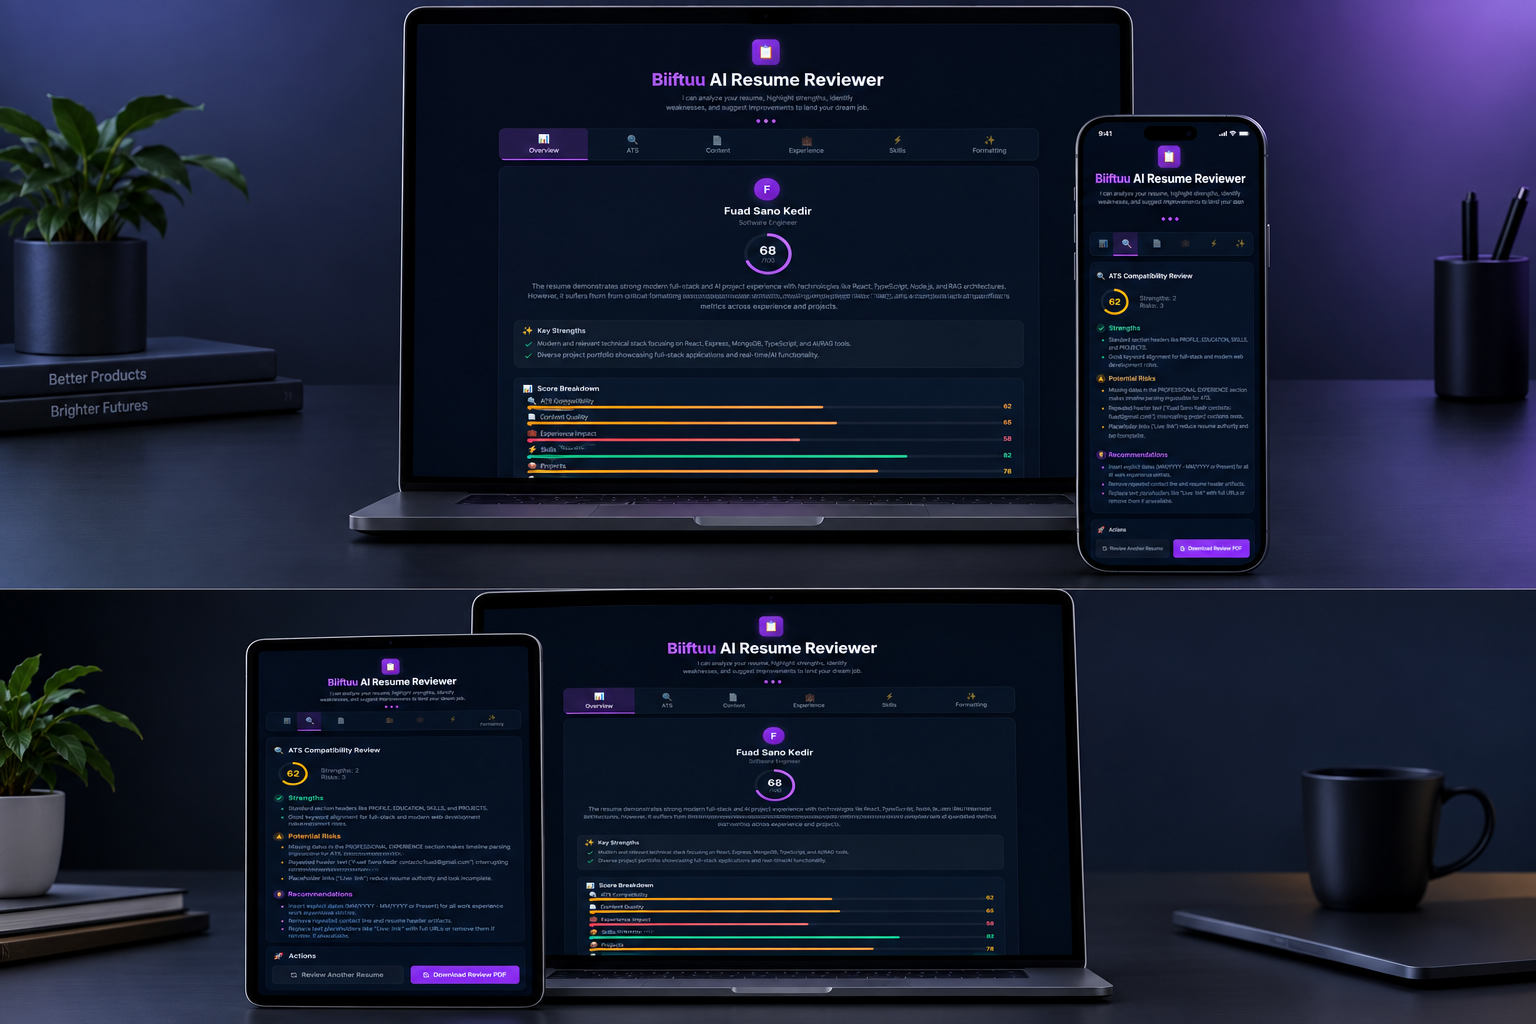
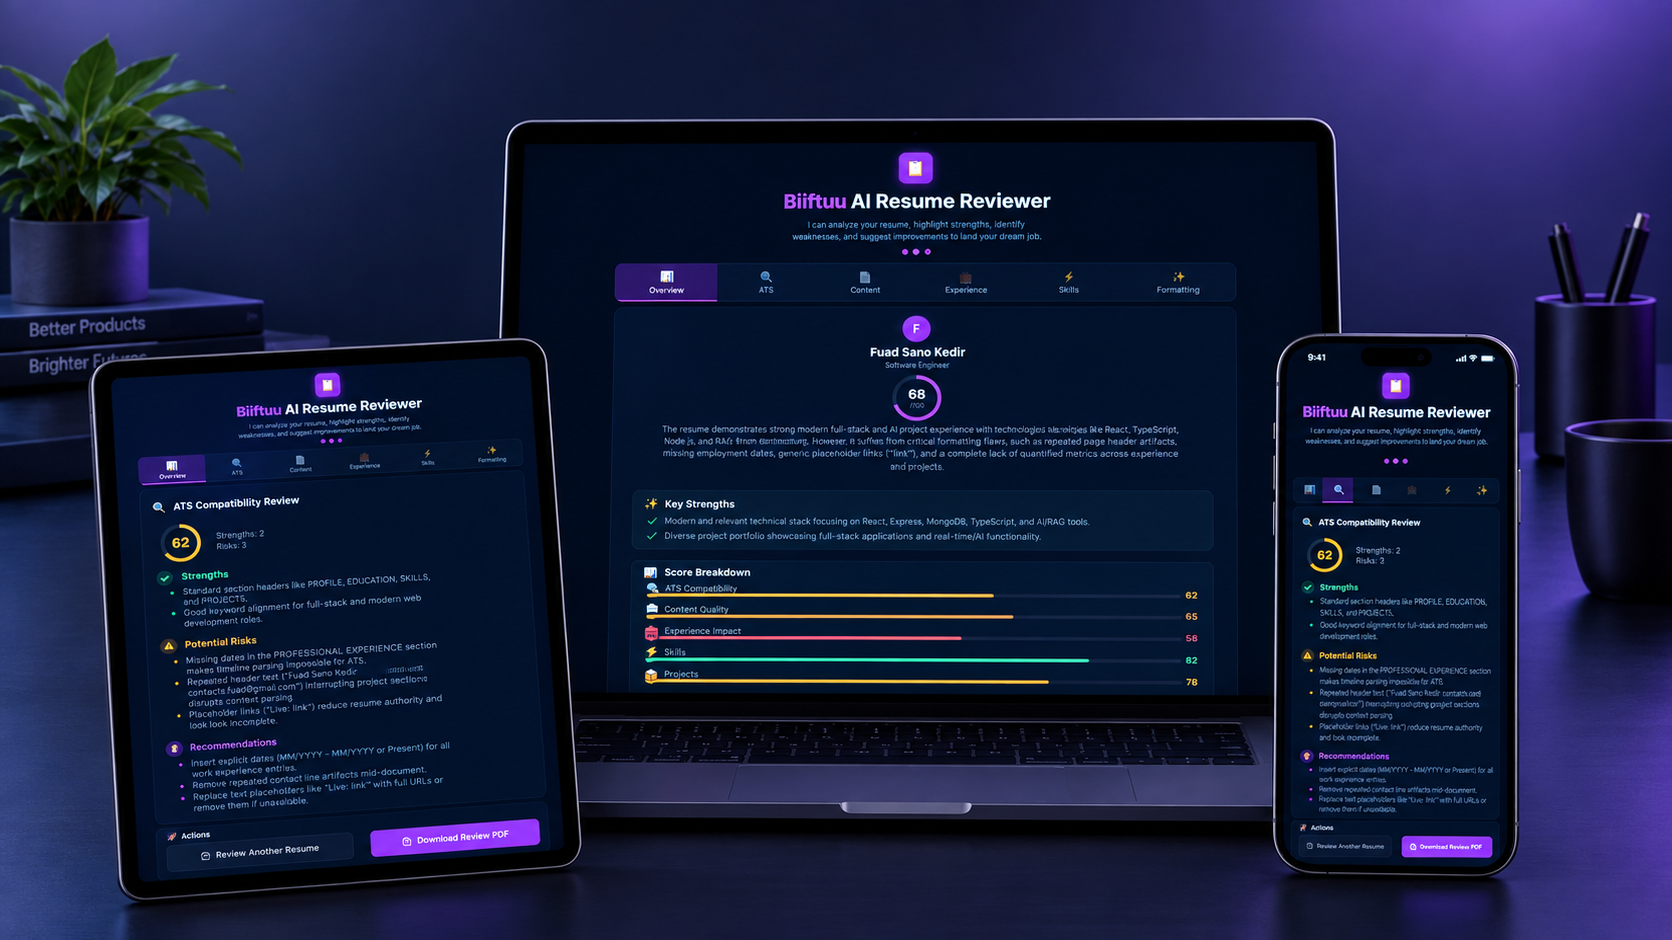
Update biiftuu-ai-mockup.png for improved design

diff --git a/README.md b/README.md
@@ -116,22 +116,29 @@ Biiftuu/
 ├── backend/
 │   ├── app/
 │   │   ├── api/routes/        # API endpoints
+│   │   ├── agents/            # AI agent logic
 │   │   ├── core/              # Config & settings
-│   │   ├── services/          # AI, parsing, review logic
+│   │   ├── prompts/           # Gemini prompt templates
 │   │   ├── schemas/           # Pydantic models
-│   │   └── prompts/           # Gemini prompt templates
+│   │   ├── services/          # AI, parsing, review logic
+│   │   └── utils/             # Validators & text cleaners
+│   ├── tests/                 # Backend tests
 │   ├── requirements.txt
 │   └── runtime.txt
 ├── frontend/
 │   ├── public/
-│   │   └── favicon.svg        # Branding asset
+│   │   ├── favicon.svg        # Favicon
+│   │   └── biiftuu-ai-mockup.png  # Branding asset
 │   ├── src/
 │   │   ├── components/        # UI components
 │   │   ├── hooks/             # React hooks
 │   │   ├── pages/             # Page views
-│   │   └── services/          # API client
+│   │   ├── services/          # API client
+│   │   └── utils/             # Formatters
 │   ├── package.json
-│   └── vite.config.js
+│   ├── vite.config.js
+│   ├── tailwind.config.js
+│   └── postcss.config.js
 └── README.md
 ```
 
@@ -165,7 +172,7 @@ Once the backend is running:
 | Variable | Default | Description |
 |---|---|---|
 | `APP_ENV` | `development` | App environment |
-| `FRONTEND_URL` | `http://localhost:5173,https://your-domain.com` | Allowed CORS origins (comma-separated) |
+| `FRONTEND_URL` | `http://localhost:5173,https://beletu-ai.onrender.com` | Allowed CORS origins (comma-separated) |
 | `GEMINI_API_KEY` | — | **Required.** Google Gemini API key |
 | `GEMINI_MODEL` | `gemini-3.6-flash` | Gemini model to use |
 | `MAX_FILE_SIZE_MB` | `10` | Max upload size |

diff --git a/frontend/README.md b/frontend/README.md
@@ -1,4 +1,4 @@
-# Beletu Frontend
+# Biiftuu Frontend
 
 AI Resume Reviewer frontend built with React + Vite + Tailwind CSS.
 

diff --git a/backend/README.md b/backend/README.md
@@ -1,4 +1,4 @@
-# Beletu Backend
+# Biiftuu Backend
 
 AI Resume Reviewer backend built with FastAPI.
 
